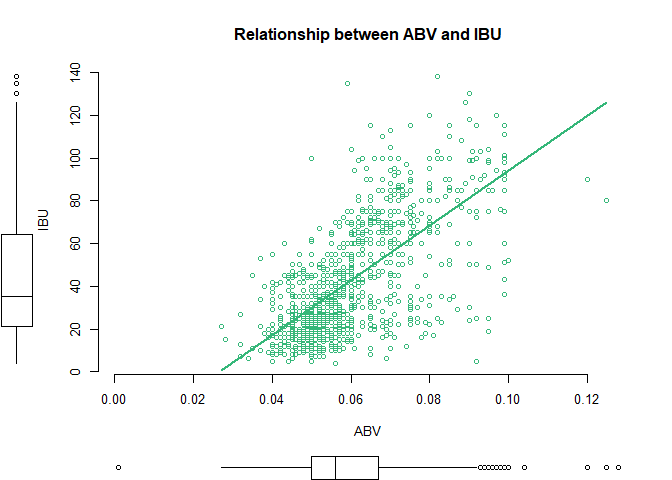
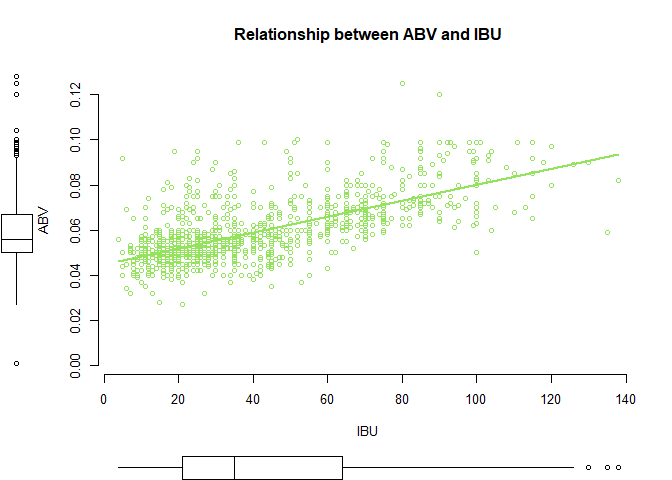
Switched scatterplot x & y

diff --git a/DDS/CaseStudy01/CaseStudy01.html b/DDS/CaseStudy01/CaseStudy01.html
@@ -526,8 +526,8 @@ ggplot(Median.ABV.IBU,aes(x=reorder(State,-Median_ABV),y=Median_ABV,fill=Median_
 </div>
 <div id="relationship-between-abv-ibu" class="section level2">
 <h2>Relationship between ABV &amp; IBU</h2>
-<pre class="r"><code>scatterplot(BreweriesFullDataset$ABV,BreweriesFullDataset$IBU,xlab=&quot;ABV&quot;,ylab=&quot;IBU&quot;,main=&quot;Relationship between ABV and IBU&quot;,smooth = FALSE, grid = FALSE, frame = FALSE, col=&quot;#35B779FF&quot;)</code></pre>
[1 lines of base64/hex data omitted]
+<pre class="r"><code>scatterplot(BreweriesFullDataset$IBU,BreweriesFullDataset$ABV,xlab=&quot;IBU&quot;,ylab=&quot;ABV&quot;,main=&quot;Relationship between ABV and IBU&quot;,smooth = FALSE, grid = FALSE, frame = FALSE, col=&quot;#93e45c&quot;)</code></pre>
[1 lines of base64/hex data omitted]
 <pre class="r"><code>cor(BreweriesFullDataset$IBU,BreweriesFullDataset$ABV,method=c(&quot;pearson&quot;,&quot;kendall&quot;,&quot;spearman&quot;),use=&quot;complete.obs&quot;)</code></pre>
 <pre><code>## [1] 0.6706215</code></pre>
 <pre class="r"><code>lm &lt;- lm(IBU~ABV,data=BreweriesFullDataset)

diff --git a/DDS/CaseStudy01/CaseStudy01.md b/DDS/CaseStudy01/CaseStudy01.md
@@ -201,7 +201,7 @@ BreweriesFullDataset[which.max(BreweriesFullDataset$IBU),]
 ## Relationship between ABV & IBU
 
 ```r
-scatterplot(BreweriesFullDataset$ABV,BreweriesFullDataset$IBU,xlab="ABV",ylab="IBU",main="Relationship between ABV and IBU",smooth = FALSE, grid = FALSE, frame = FALSE, col="#35B779FF")
+scatterplot(BreweriesFullDataset$IBU,BreweriesFullDataset$ABV,xlab="IBU",ylab="ABV",main="Relationship between ABV and IBU",smooth = FALSE, grid = FALSE, frame = FALSE, col="#93e45c")
 ```
 
 ![](CaseStudy01_files/figure-html/question7-1.png)<!-- -->
